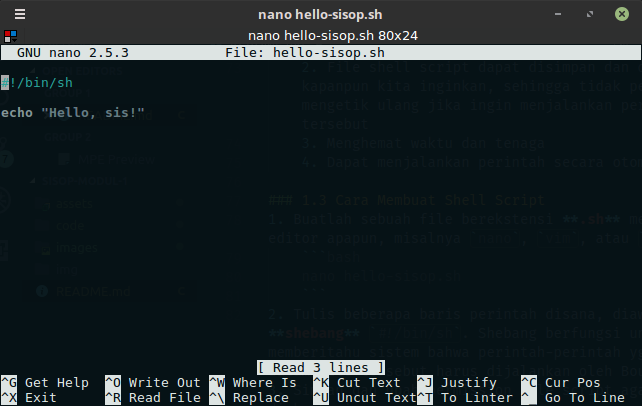
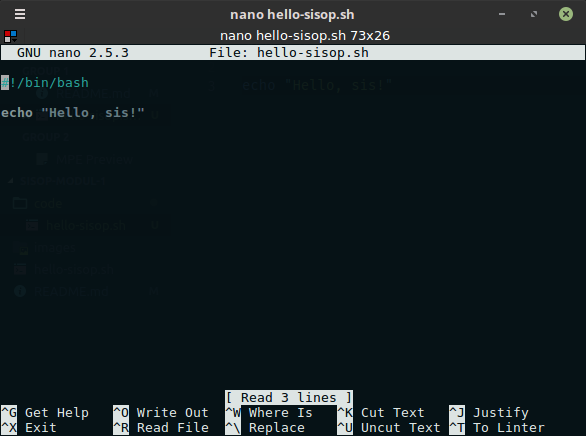
nambah

diff --git a/README.md b/README.md
@@ -1,12 +1,10 @@
 ## Modul 1 Sistem Operasi
-# Shell Scripting dan AWK
+# Shell Scripting, Cron, dan AWK
 
-## Syarat Mengikuti Modul
-1. Linux OS 
-2. Paham CLI (Command Line Interface)
-
-Untuk penyegaran kembali terkait CLI, silahkan membaca [Modul Pengenalan CLI](https://github.com/raldokusuma/modul-pengenalan-CLI)
-  
+## Prasayarat
+1. Menginstall Sistem Operasi **Linux** 
+2. Paham CLI (Command Line Interface) - [Modul Pengenalan CLI](https://github.com/raldokusuma/modul-pengenalan-CLI)
+   
 ## Daftar Isi
   - [1. Shell Scripting](#1-shell-scripting)
     - [1.1 Shell](#11-shell)
@@ -44,28 +42,80 @@ Sebuah sistem operasi terdiri dari dua komponen utama, yaitu **Kernel** dan **Sh
 ![component](/images/component.png)
 
 * **Kernel** adalah inti dari komputer. Komponen ini memungkinkan terjadinya komunikasi antara software dan hardware. Jika kernel adalah bagian terdalam dari sebuah sistem operasi, maka **shell** adalah bagian terluarnya.
-* **Shell** adalah antarmuka sistem operasi, yaitu sebuah lingkungan dimana user dapat menjalankan program, perintah, maupun shell script. Shell menerima input dari user, menjalankan program berdasarkan input tersebut, kemudian menampilkan outputnya. Shell dapat diakses melalui **Terminal**.
+* **Shell** adalah program penerjemah perintah yang menjembatani user dengan kernel. Umumnya, shell menyediakan **prompt** sebagai user interface tempat user menginputkan perintah-perintah yang diinginkan, baik berupa perintah internal maupun eksternal. Setelah menerima input dari user dan menjalankan program/perintah berdasarkan input tersebut, shell akan mengeluarkan output. Shell dapat diakses melalui **Terminal**.
 
-> Catatan: Coba buka terminal di Linux, maka kamu akan menemukan **command prompt** Shell (biasanya **$**). Disitu, kamu dapat mengetik input berupa perintah, kemudian mengeksekusinya dengan menekan tombol "Enter". Output akan ditampilkan di terminal.
+  > Catatan: Coba buka terminal di Linux, maka kamu akan menemukan **prompt** shell (biasanya **$**). Disitu, kamu dapat mengetik input berupa perintah, kemudian mengeksekusinya dengan menekan tombol "Enter". Output akan ditampilkan di terminal.
 
-Ada 2 tipe shell utama di dalam sistem operasi Linux, yaitu:
-1. **Bourne Shell** - Prompt untuk shell ini adalah **$**. Berikut adalah subkategorinya:
-  * Bourne Shell (sh)
-  * POSIX Shell (sh)
-  * Korn Shell (ksh)
-  * Bourne Again SHell (bash) 
-2. **C Shell** - Prompt untuk shell ini adalah **%**. Berikut adalah subkategorinya:
+Ada 2 tipe shell utama di Unix/Linux, yaitu:
+1. **Bourne Shell** - Prompt untuk shell ini adalah **$**
+   * Bourne Shell (sh)
+   * POSIX Shell (sh)
+   * Korn Shell (ksh)
+   * Bourne Again SHell (bash) 
+2. **C Shell** - Prompt untuk shell ini adalah **%**
    * C Shell (csh)
    * TENEX/TOPS C Shell (tcsh)
 
-### 1.2 Shell Scripting
-* **Shell scripting** adalah kegiatan menulis serangkaian perintah untuk dieksekusi oleh Shell. Konsep dasarnya sederhana, yaitu sebuah file berisi serangkaian perintah Linux yang ditulis berurutan sesuai dengan urutan eksekusinya. 
-* Tujuan menggunakan shell script:
-  1. Dapat menjalankan beberapa perintah sebagai satu perintah 
-  2. File shell script dapat disimpan dan dieksekusi kapanpun kita inginkan, sehingga tidak perlu mengetik ulang jika ingin menjalankan perintah tersebut
-  3. Dapat menjalankan perintah secara otomatis
+### 1.2 Pemrograman Shell
+**Pemrograman shell** adalah menyusun beberapa perintah shell (internal maupun eksternal) menjadi serangkaian perintah untuk melakukan tugas tertentu. <br>
+Kelebihan shell di Linux adalah memungkinkan user untuk menyusun serangkaian perintah seperti halnya bahasa pemrograman interpreter, yakni melakukan proses input output, menyeleksi kondisi (decision making), looping, membuat fungsi, dsb. <br>
+Pemrograman shell di Unix/Linux juga disebut dengan **shell scripting**.Untuk memudahkan, shell script dapat disimpan ke dalam sebuah **file** yang dapat dieksekusi kapanpun kita inginkan.<br> 
+Manfaat belajar shell scripting:
+   1. Dapat bekerja secara efektif dan efisien karena tidak perlu mengetik serangkaian perintah secara berulang-ulang, cukup menulis dan mengeksekusi satu file saja
+   2. Dapat menjalankan beberapa perintah sebagai satu perintah
+   3. Dapat menjalankan perintah secara otomatis
 
-### 1.3 Membuat Shell Script
+### 1.3 Perintah Dasar Shell
+
+Shell yang digunakan dalam modul ini adalah **Bash** karena paling banyak digunakan pada distro Linux. Untuk memastikan shell apa yang kalian gunakan, coba lakukan:
+```bash
+$ echo $SHELL
+```
+Shell memiliki perintah **internal** (built in shell) dan perintah **eksternal**. Untuk mengecek apakah sebuah perintah termasuk internal atau eksternal, gunakan perintah `type`
+```bash
+$ type cd
+cd is a shell builtin
+$ type bash
+bash is /bin/bash
+$ type read
+read is a shell builtin 
+$ type chmod
+chmod is /bin/chmod
+```
+* Contoh perintah internal: `cd, pwd, times, alias, umask, exit, logout, fg, bg, ls, mkdir, rmdir, mv, cp, rm, clear, ...`
+* Contoh perintah eksternal: `cat, cut, paste, chmod, lpr,...`. Beberapa perintah eksternal dapat dilihat di [Modul Pengenalan CLI](https://github.com/raldokusuma/modul-pengenalan-CLI)
+
+Selain itu, ada beberapa karakter yang cukup penting untuk digunakan dalam shell:
+1. Redirection (cara mengirim output ke file atau menerima input dari file) menggunakan operator redirect `>, >>, <, <<`, contoh:
+    ```bash
+    ls > data
+    #hasil output ls dikirim ke file data. jika file belum ada akan dibuat, tetapi jika sudah ada, isinya akan ditimpa
+
+    ls >> data
+    #hampir sama, bedanya jika file sudah ada maka isinya akan ditambah di akhir file
+
+    cat < data
+    #file data dijadikan input oleh perintah cat
+    ```
+2. Pipe (output suatu perintah menjadi input perintah lain) menggunakan operator `|`, contoh:
+    ```bash
+    ls -l | sort -s
+    #ouput perintah ls -l menjadi input perintah sort -s (urutkan secara descending)
+
+    cat < data | sort > databaru
+    ```
+3. Wildcard dengan karakter `*, ?, [ ]`, contoh:
+    ```bash
+    ls i*
+    #tampilkan semua file yang dimulai dengan i
+
+    ls i?i
+    #tampilkan file yang dimulai dengan i, kemudian sembarang karakter tunggal, dan diakhiri dengan i
+
+    ls [ab]*
+    #tampilkan file yang dimulai dengan salah satu karakter a atau b
+    ```
+### 1.4 Simple Shell Script
 1. Buatlah sebuah file berekstensi **.sh** menggunakan editor apapun, misalnya `nano`, `vim`, atau `gedit`.
     ```bash 
     nano nama_file.sh
@@ -74,7 +124,7 @@ Ada 2 tipe shell utama di dalam sistem operasi Linux, yaitu:
     ```bash 
     nano hello-sisop.sh
     ```
-2. Tulis beberapa baris perintah disana, diawali dengan **shebang** `#!/bin/bash`. Shebang berfungsi untuk memberitahu sistem bahwa perintah-perintah yg ada di dalam file tersebut harus dijalankan oleh Bourne Shell.
+2. Tulis beberapa baris perintah disana, diawali dengan **shebang** `#!/bin/bash`. Shebang berfungsi untuk memberitahu sistem bahwa perintah-perintah yg ada di dalam file tersebut harus dijalankan oleh Bash.
 
     ![ss-2](/images/ss-2.png)
 
@@ -92,16 +142,16 @@ Ada 2 tipe shell utama di dalam sistem operasi Linux, yaitu:
   * **Angka** (0-9)
   * Karakter **underscore** (_)
   
-  Kita tidak bisa menggunakan karakter **!**, **\***, atau **-** karena karakter tersebut punya arti khusus untuk shell.
+  Kita tidak bisa menggunakan karakter **!**, **\***, atau **-** karena karakter tersebut punya makna khusus untuk shell.
 * Syntax 
   * Mendefinisikan variabel
-  ```bash
-  nama_var=nilai
-  ```
+    ```bash
+    nama_var=nilai
+    ```
   * Mengakses variabel
-  ```bash
-  $nama_var
-  ```
+    ```bash
+    $nama_var
+    ```
 * Tipe-tipe variabel
   * String
     ```bash
@@ -119,24 +169,26 @@ Ada 2 tipe shell utama di dalam sistem operasi Linux, yaitu:
     #Jika isi array berupa integer
     nama_var=(nilai0 nilai1 nilai2 ... nilaiN)    
     ```
-* Contoh
+* Contoh:
   ```bash
   #!/bin/bash
 
   mata_kuliah="Sistem Operasi A"
   semester=4
-  mahasiswa=("Khawari" "Raldo" "Aguel")
-
-  echo "Hello, sis!"
+  mahasiswa=("Khawari" "Raldo" "Aguel" "Tamtam")
 
   echo "Variabel string:" $mata_kuliah
   echo "Variabel integer:" $semester
   echo "Variabel array ke-1:" ${mahasiswa[0]}
   echo "Variabel array ke-2:" ${mahasiswa[1]}
   echo "Variabel array ke-3:" ${mahasiswa[2]}
+  echo "Variabel array ke-4:" ${mahasiswa[3]}
   ```
+  Output:
+  ![ss-4](/images/ss-4.png)
+  
   Catatan:
-  * Syntax array diatas hanya dapat dieksekusi oleh **bash shell**, sehingga harus dieksekusi dengan cara `bash nama_file.sh` atau `bash ./nama_file.sh`. Jika menggunakan `./nama_file.sh` maka akan muncul error:
+  * Syntax array diatas hanya dapat dieksekusi oleh **bash**, sehingga harus dieksekusi dengan cara `bash nama_file.sh` atau `bash ./nama_file.sh`. Jika menggunakan `./nama_file.sh` maka akan muncul error:
     ![ss-3](/images/ss-3.png)
 * Selain tipe-tipe variabel diatas, ada juga yang disebut dengan **special variabel**. Ada banyak sekali macamnya, sehingga bisa dibaca-baca sendiri disini https://www.tutorialspoint.com/unix/unix-special-variables.htm
 
@@ -162,8 +214,11 @@ Ada 2 tipe shell utama di dalam sistem operasi Linux, yaitu:
   read nama
   echo "Hai $nama, selamat datang di praktikum sistem operasi!"
   ```
+  Output:
+  ![ss-5](images/ss-5.png)
+
 ### 1.6 Quoting Mechanism
-* Unix Shell memiliki beberapa karakter khusus shell yang disebut dengan **metakarakter**. Karakter tersebut punya arti khusus jika digunakan di dalam shell script. Beberapa jenis metakarakter:
+* Unix Shell memiliki beberapa karakter khusus shell yang disebut dengan **metakarakter**. Karakter tersebut punya makna khusus jika digunakan di dalam shell script. Beberapa jenis metakarakter:
   ```bash
   * ? [ ] ' " \ $ ; & ( ) | ^ < > new-line space tab
   ```
@@ -171,28 +226,28 @@ Ada 2 tipe shell utama di dalam sistem operasi Linux, yaitu:
   
     | No | Quoting | Deskripsi|
     |---|---|---|
-    | 1 | Single Quotes (') | Semua metakarakter di antara single quotes akan kehilangan makna khusus |
-    | 2 | Double Quotes (") | Sebagian besar metakarakter di antara double quotes akan kehilangan makna khusus, kecuali `$, backquotes, \$, \', \", \\` |
+    | 1 | Single Quote (') | Semua metakarakter di antara single quote akan kehilangan makna khusus |
+    | 2 | Double Quote (") | Sebagian besar metakarakter di antara double quote akan kehilangan makna khusus, kecuali `$, backquote, \$, \', \", \\` |
     | 3 | Backslash (\\) | Karakter apa pun setelah backslash akan kehilangan makna khusus |
-    | 4 | Backquotes (`) | Apa pun di antara back quote akan diperlakukan sebagai perintah dan akan dieksekusi |
+    | 4 | Backquote (`) | Apa pun di antara back quote akan diperlakukan sebagai perintah dan akan dieksekusi |
 
 * Contoh:
     ```bash
     #!/bin/bash
     
-    #Single quotes
+    #Single quote
     single=3
     echo '$single'
 
-    #Double quotes
+    #Double quote
     double=3
     echo "$single"
 
     #Backslash
     echo siapa namamu\?
 
-    #Backquotes
-    var=`date`
+    #Backquote
+    date=`date`
     echo "Hari ini:" $date
     ```
 
@@ -533,7 +588,7 @@ Cron memungkinkan pengguna Linux dan Unix untuk menjalankan perintah atau script
     ![crontab-guru](images/crontab-guru.png)<br>
 
 ### 2.2 Referensi
-* https://www.cyberciti.biz/faq/how-do-i-add-jobs-to-cron-under-linux-or-unix-oses/
+* https://www.cyberciti.biz/faq/how-do-i-add-jobs-to-cron-under-Linux-or-unix-oses/
 
 ## 3. AWK
 `awk` merupakan sebuah program yang bisa digunakan untuk mengambil catatan/record tertentu dalam sebuah file dan melakukan sebuah/beberapa operasi terhadap catatan/record tersebut.
@@ -610,7 +665,7 @@ Pada contoh di atas, rule kedua hanya memiliki action untuk melakukan perhitunga
 
 ### 3.3 Referensi
 * https://www.gnu.org/software/gawk/manual/gawk.html
-* https://www.geeksforgeeks.org/awk-command-unixlinux-examples/
+* https://www.geeksforgeeks.org/awk-command-unixLinux-examples/
 
 ## 4. Latihan
 1. Buatlah sebuah program menggunakan bash script untuk menentukan apakah sebuah string yang
